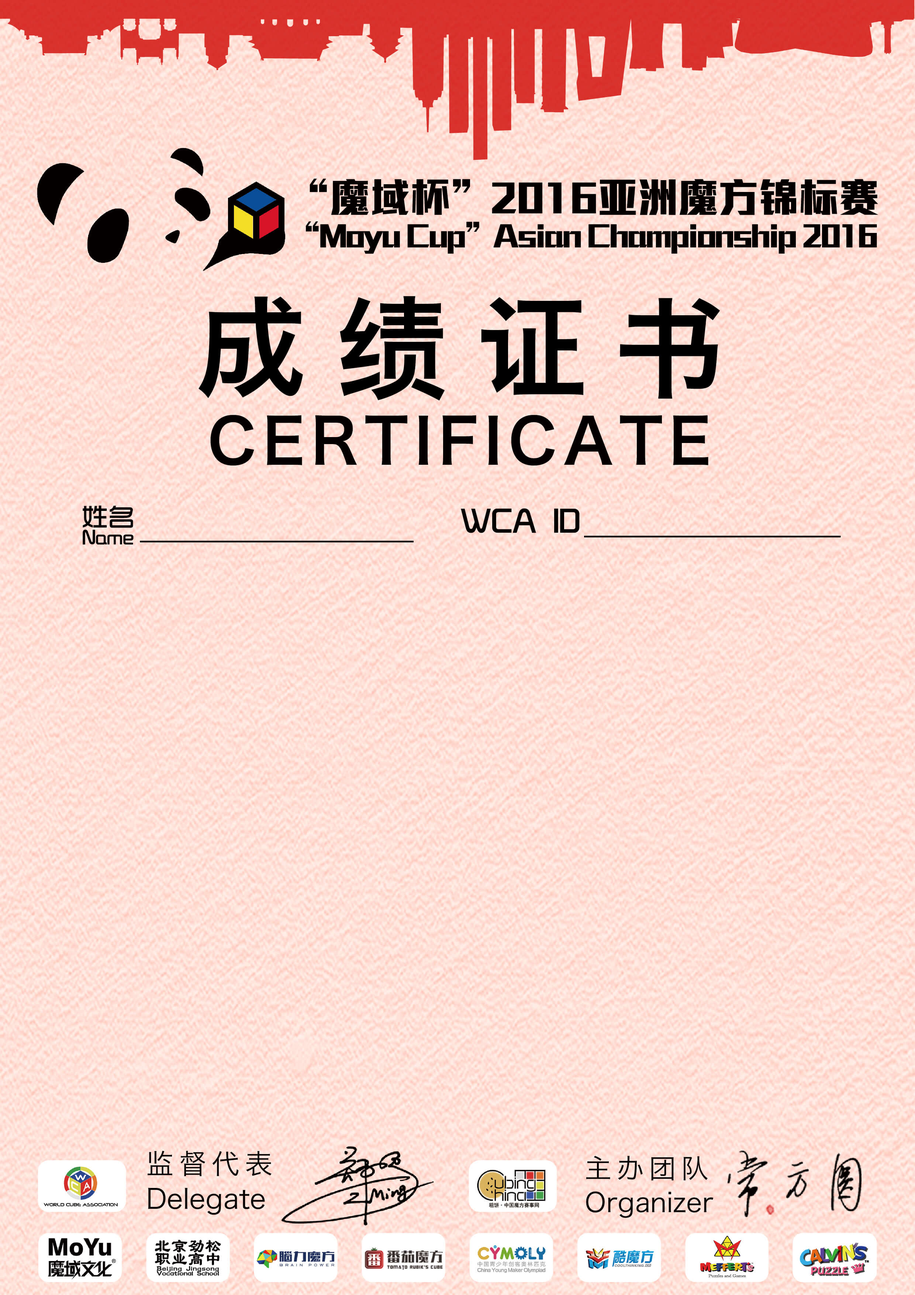
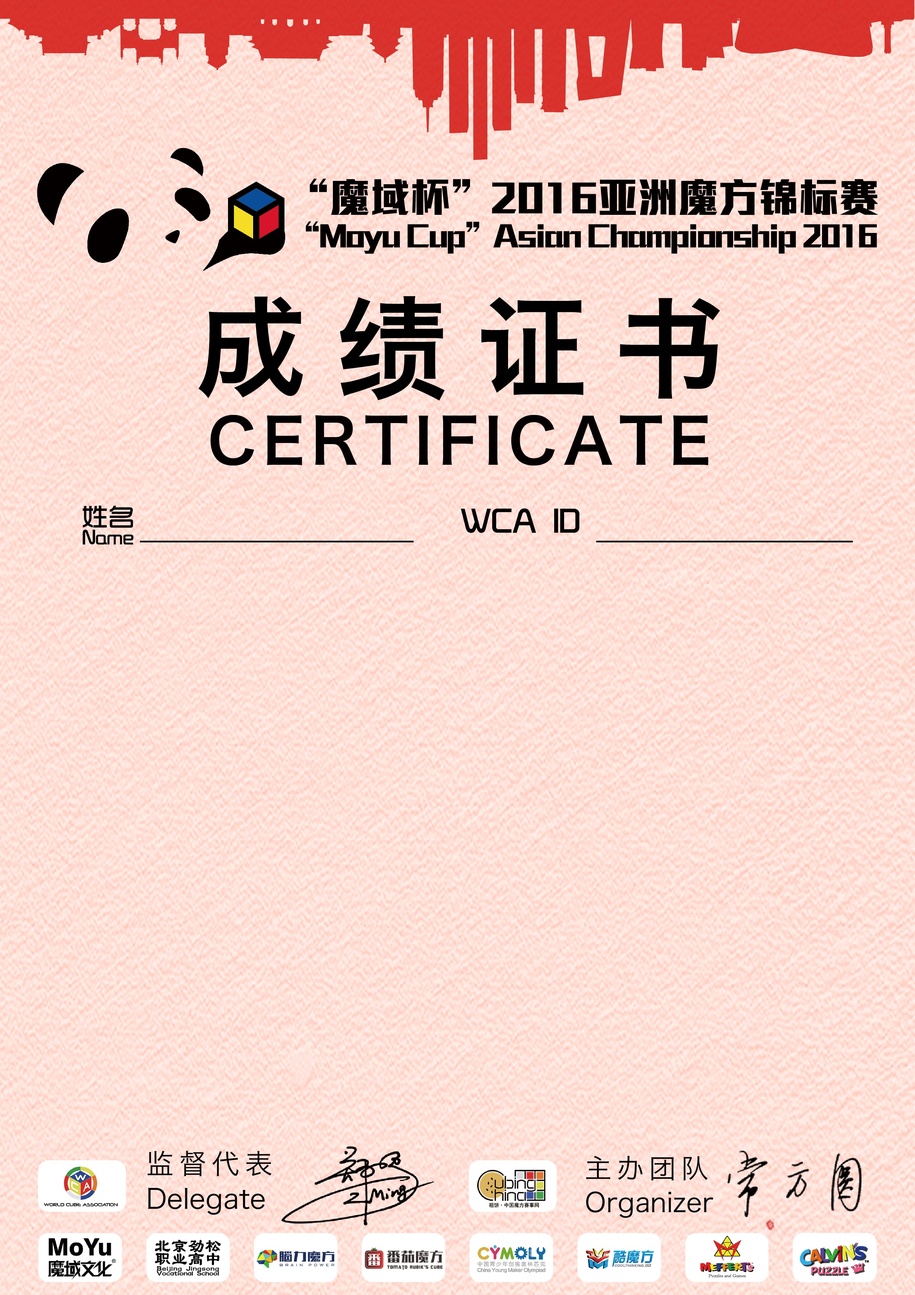
Change bg

diff --git a/protected/data/certs/ac2016/results.php b/protected/data/certs/ac2016/results.php
@@ -47,7 +47,9 @@
   }
   .person-info .wcaid {
     float: right;
-    margin-right: 194px;
+    margin-right: 86px;
+    width: 347px;
+    text-align: center;
   }
   .results {
     margin-top: 20px;
